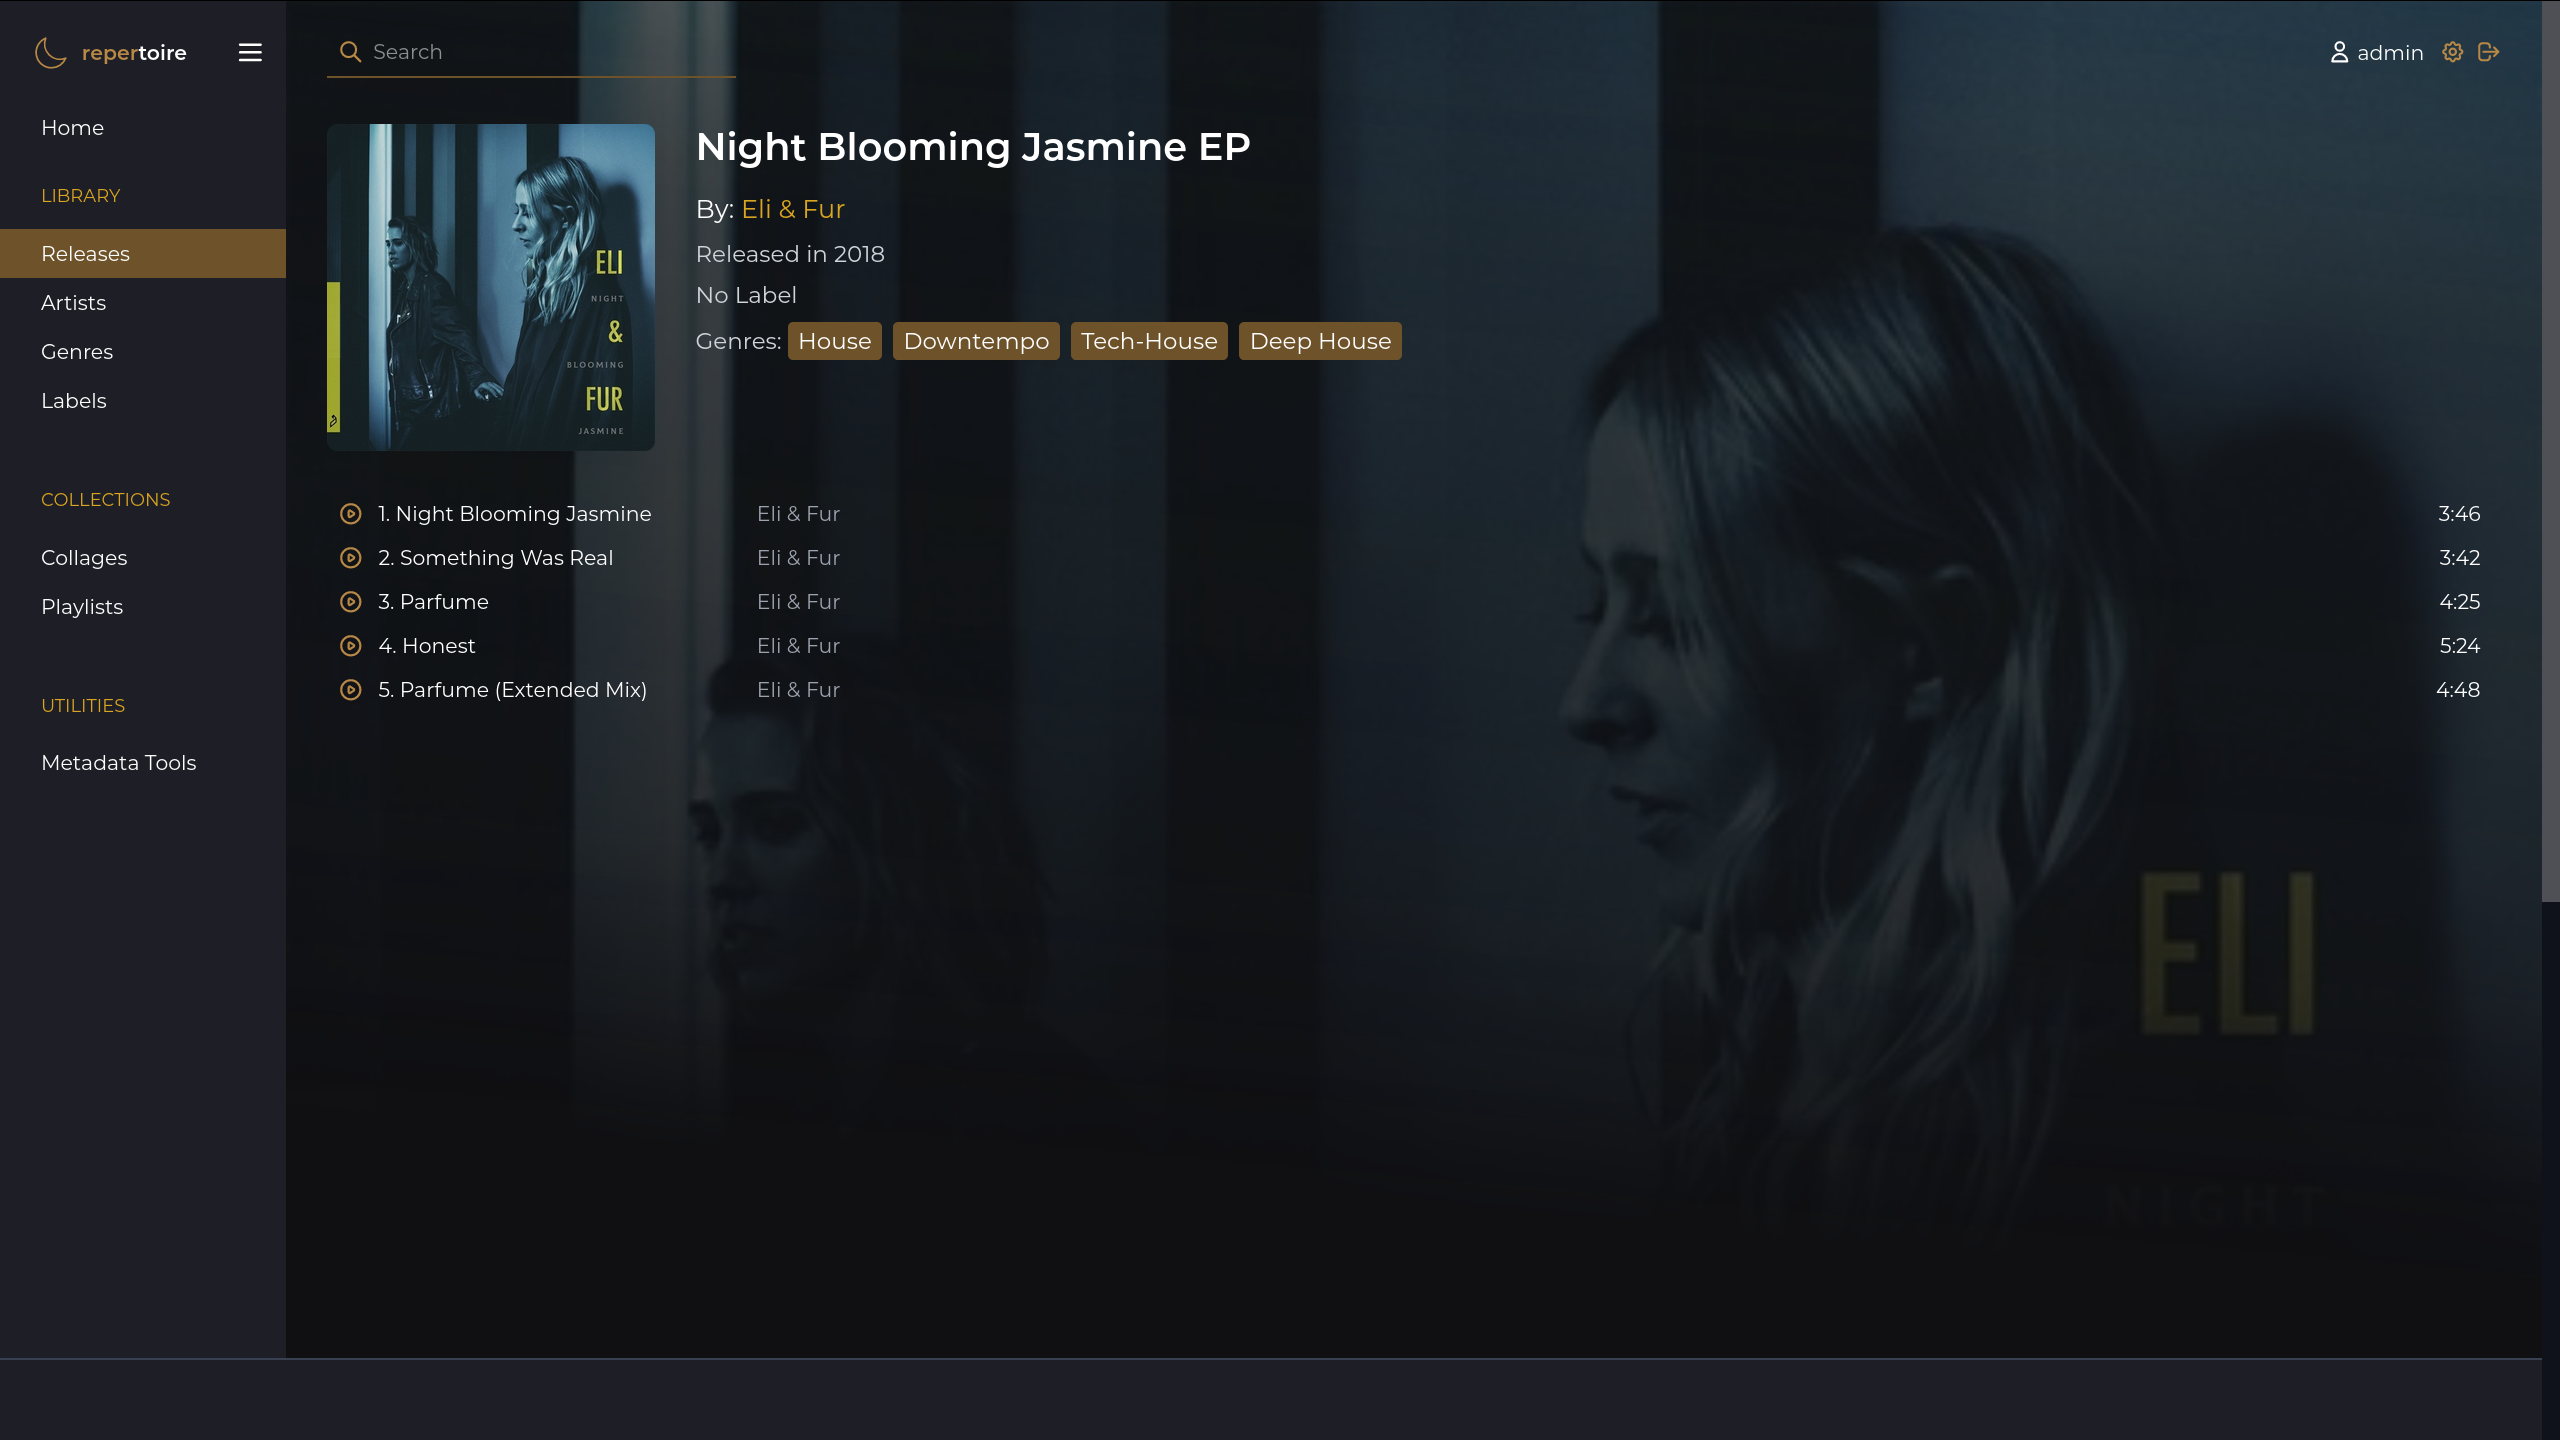
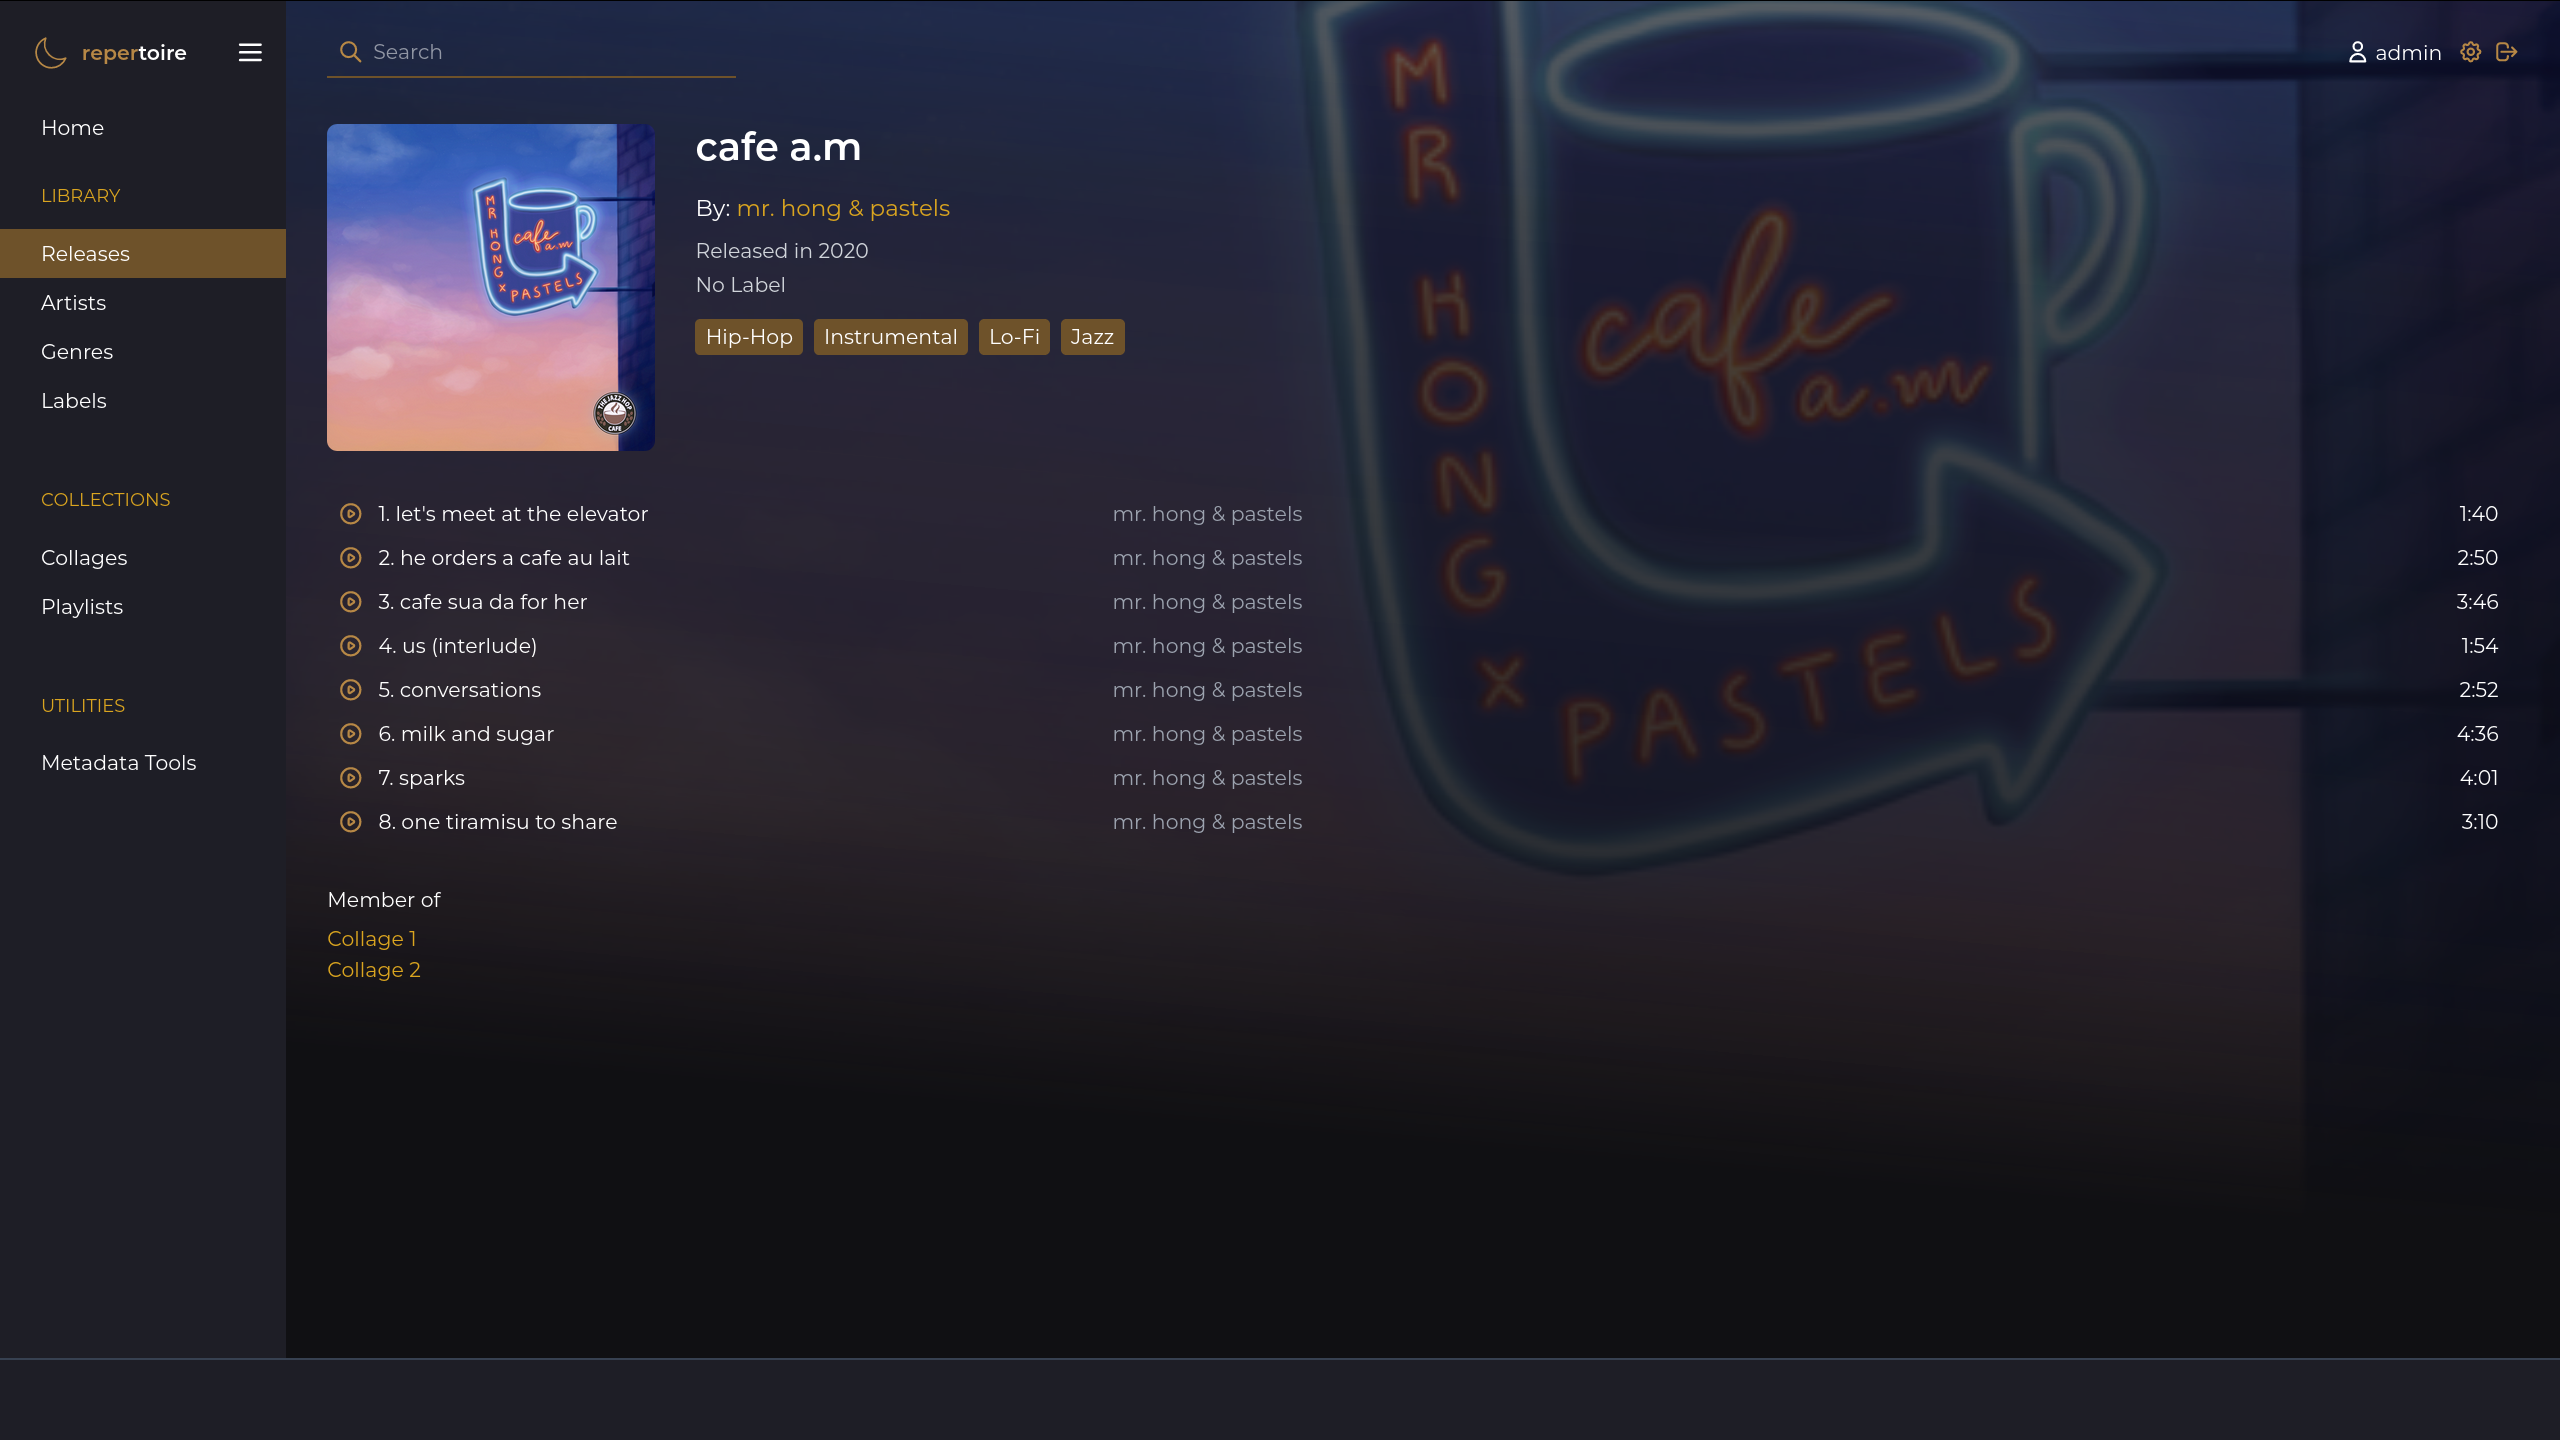
update release page styles slightly

Changed region(s): [[0.0938, 0.0, 1.0, 0.6562], [0.125, 0.625, 0.1562, 0.6875], [0.5625, 0.4688, 0.5938, 0.5]]

diff --git a/frontend/src/pages/Release/Info.tsx b/frontend/src/pages/Release/Info.tsx
@@ -13,7 +13,7 @@ export const Info: React.FC<{ release: ReleaseT }> = ({ release }) => {
   return (
     <div className="flex flex-col">
       <SectionHeader className="truncate-2 mb-4">{release.title}</SectionHeader>
-      <div className="text-xl truncate-2 mb-2">
+      <div className="text-lg truncate-2 mb-2">
         {(release.artists as ArtistT[]).length === 0 ? (
           <Link href="/artists/1">Unknown Artist</Link>
         ) : (
@@ -28,8 +28,8 @@ export const Info: React.FC<{ release: ReleaseT }> = ({ release }) => {
           </>
         )}
       </div>
-      <div className="text-lg mb-1 text-gray-800 dark:text-gray-300">{whenReleased}</div>
-      <div className="text-lg truncate-2 mb-1 text-gray-800 dark:text-gray-300">
+      <div className="text-md mb-1 text-gray-800 dark:text-gray-300">{whenReleased}</div>
+      <div className="text-md truncate-2 mb-1 text-gray-800 dark:text-gray-300">
         {labelLength === 0 ? (
           <span>No Label</span>
         ) : (
@@ -44,14 +44,11 @@ export const Info: React.FC<{ release: ReleaseT }> = ({ release }) => {
           </>
         )}
       </div>
-      <div className="text-lg truncate-2 mb-1 text-gray-800 dark:text-gray-300">
-        {genreLength === 0 ? (
-          <span>No Genres</span>
-        ) : (
+      <div className="text-md truncate-2 text-gray-800 dark:text-gray-300">
+        {genreLength !== 0 && (
           <>
-            <span>Genre{genreLength > 1 ? 's' : ''}: </span>
             <GenreList
-              className="inline"
+              className="my-2"
               elementClassName="bg-primary-alt text-foreground px-2 py-1 mr-1 rounded leading-9"
               elements={release.genres}
               delimiter=" "

diff --git a/frontend/src/pages/Release/index.tsx b/frontend/src/pages/Release/index.tsx
@@ -48,13 +48,13 @@ export const Release: React.FC = () => {
               <Info release={data.release} />
             </div>
             <Disclist className="py-8" tracks={data.release.tracks as TrackT[]} />
-            <div className="px-8 w-full overflow-x-hidden">
+            <div className="text-md px-8 w-full overflow-x-hidden">
               {collageLength !== 0 && (
                 <>
-                  <div className="text-lg">Member of:</div>
+                  <div className="mb-2">Member of</div>
                   <ul>
                     {(data.release.collages as CollectionT[]).map((collage) => (
-                      <li className="mt-1 text-primary text-lg" key={collage.id}>
+                      <li className="my-0.5 text-primary-alt3" key={collage.id}>
                         <Link href={`/collages/${collage.id}`}>{collage.name}</Link>
                       </li>
                     ))}
